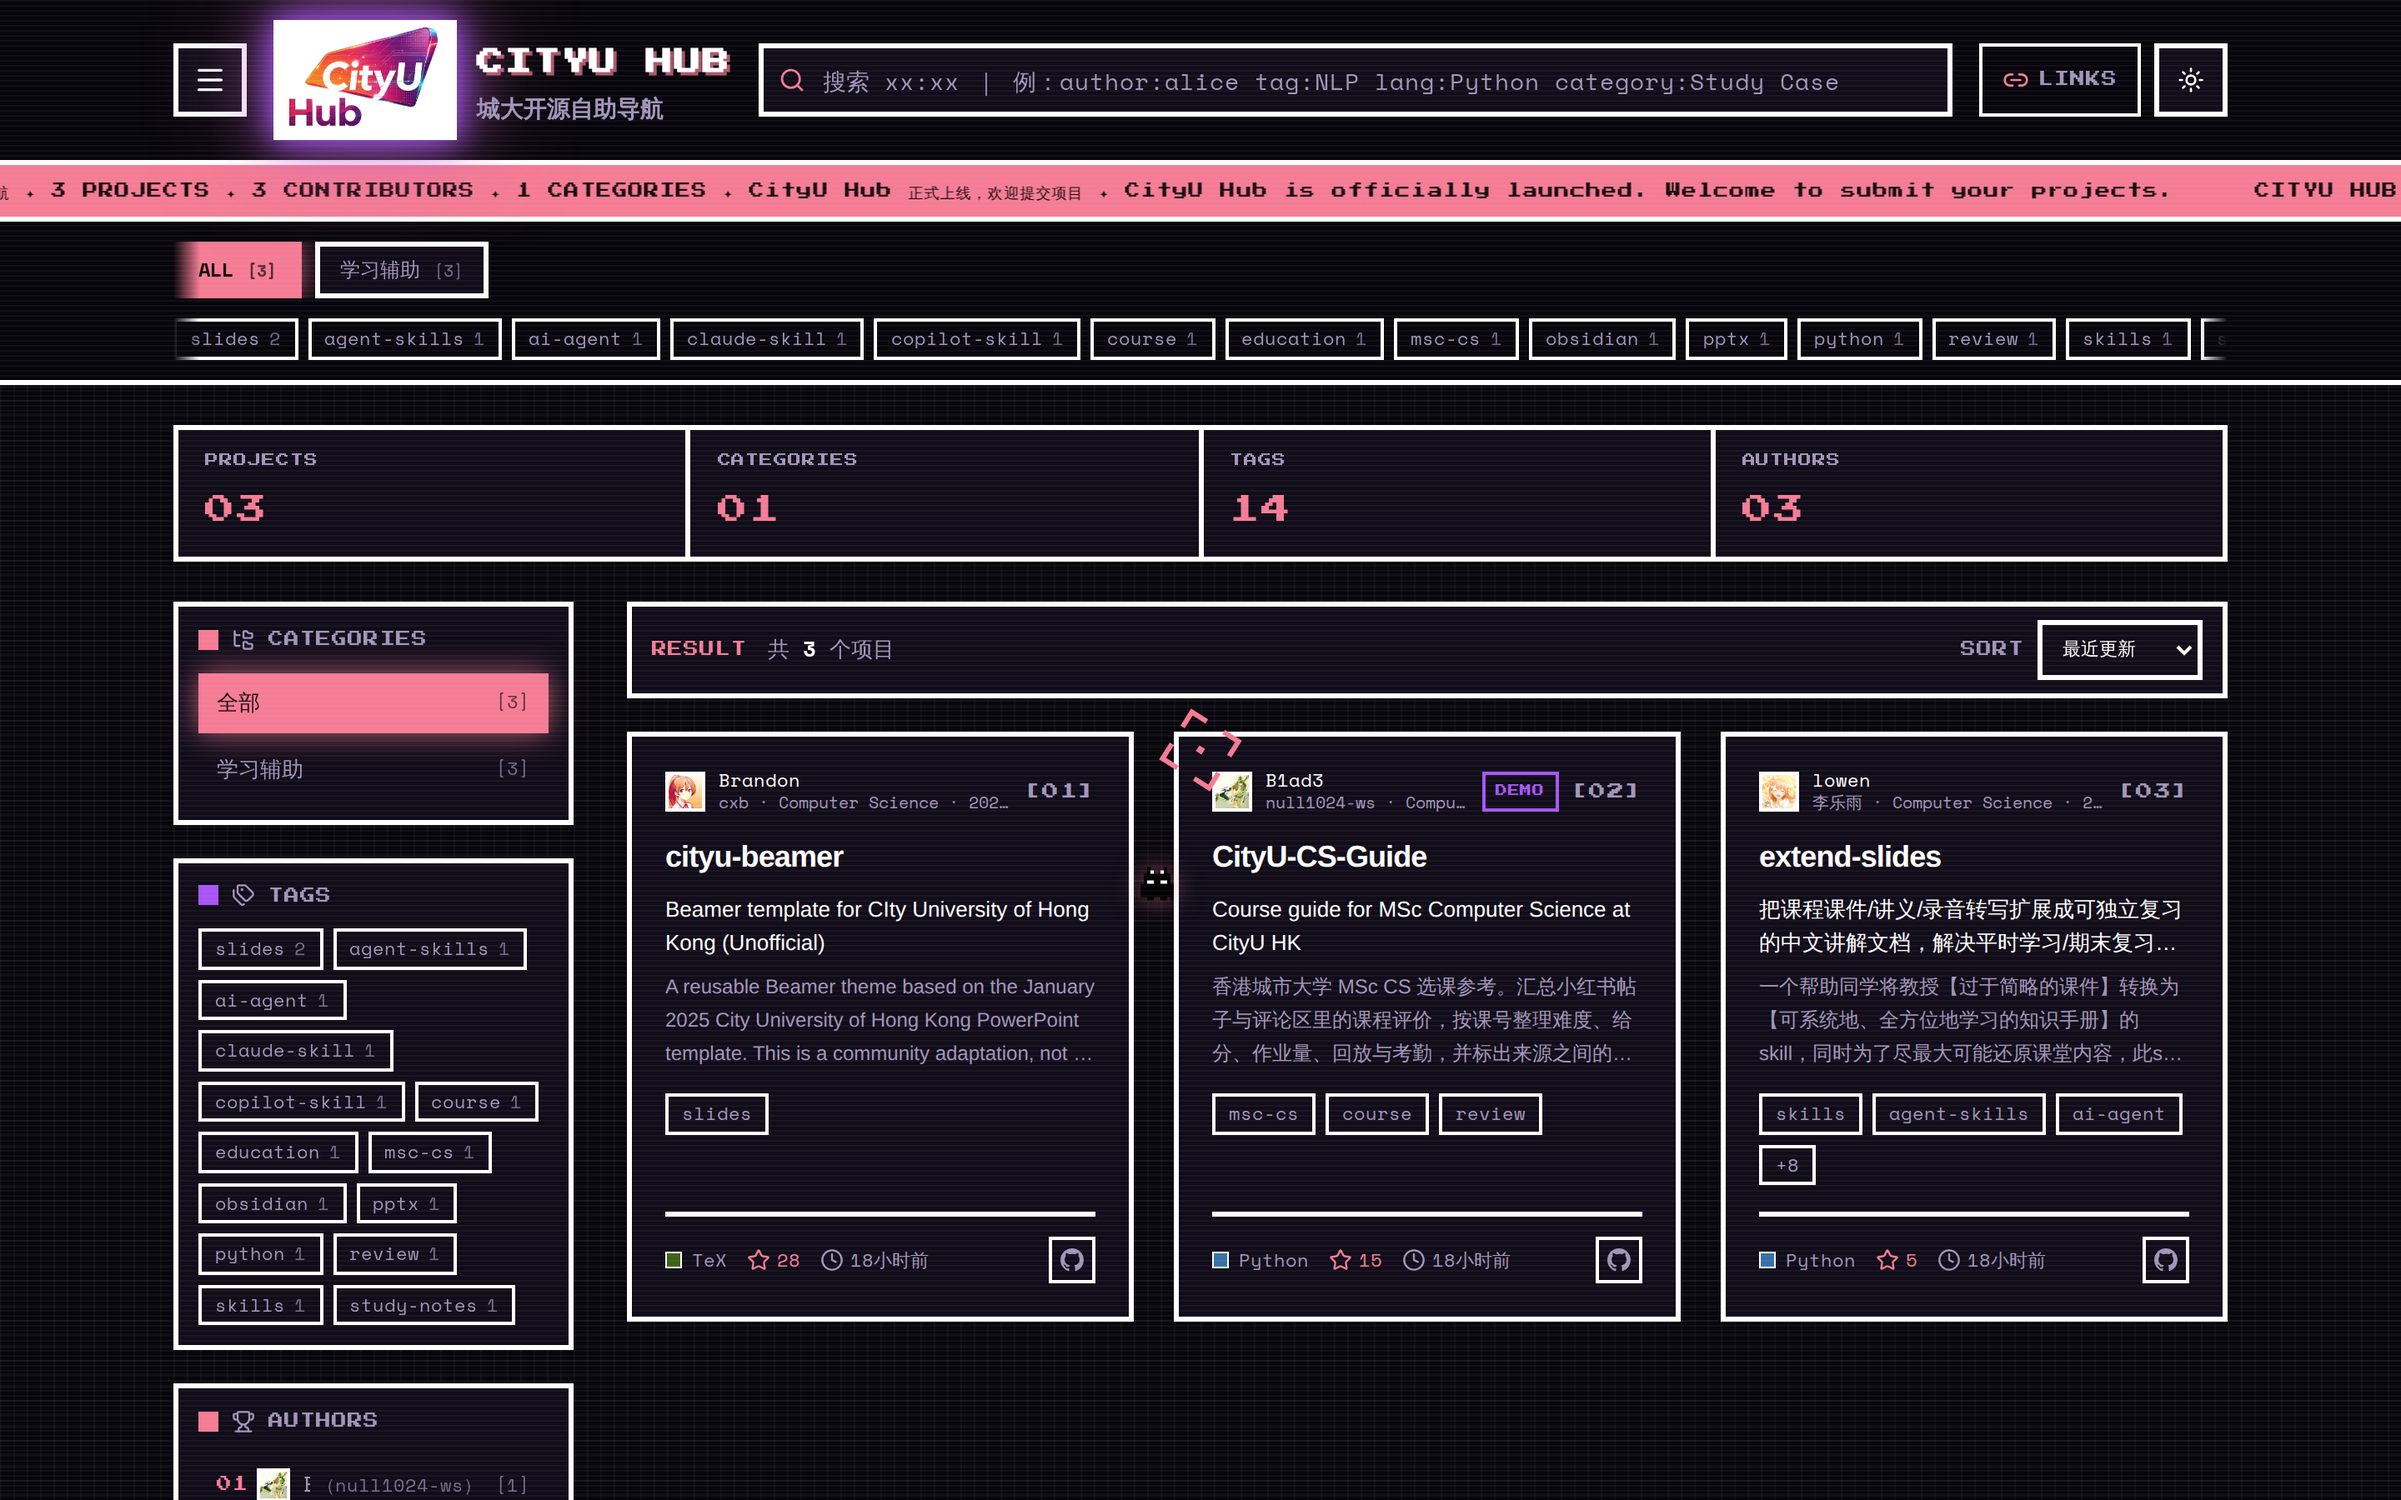
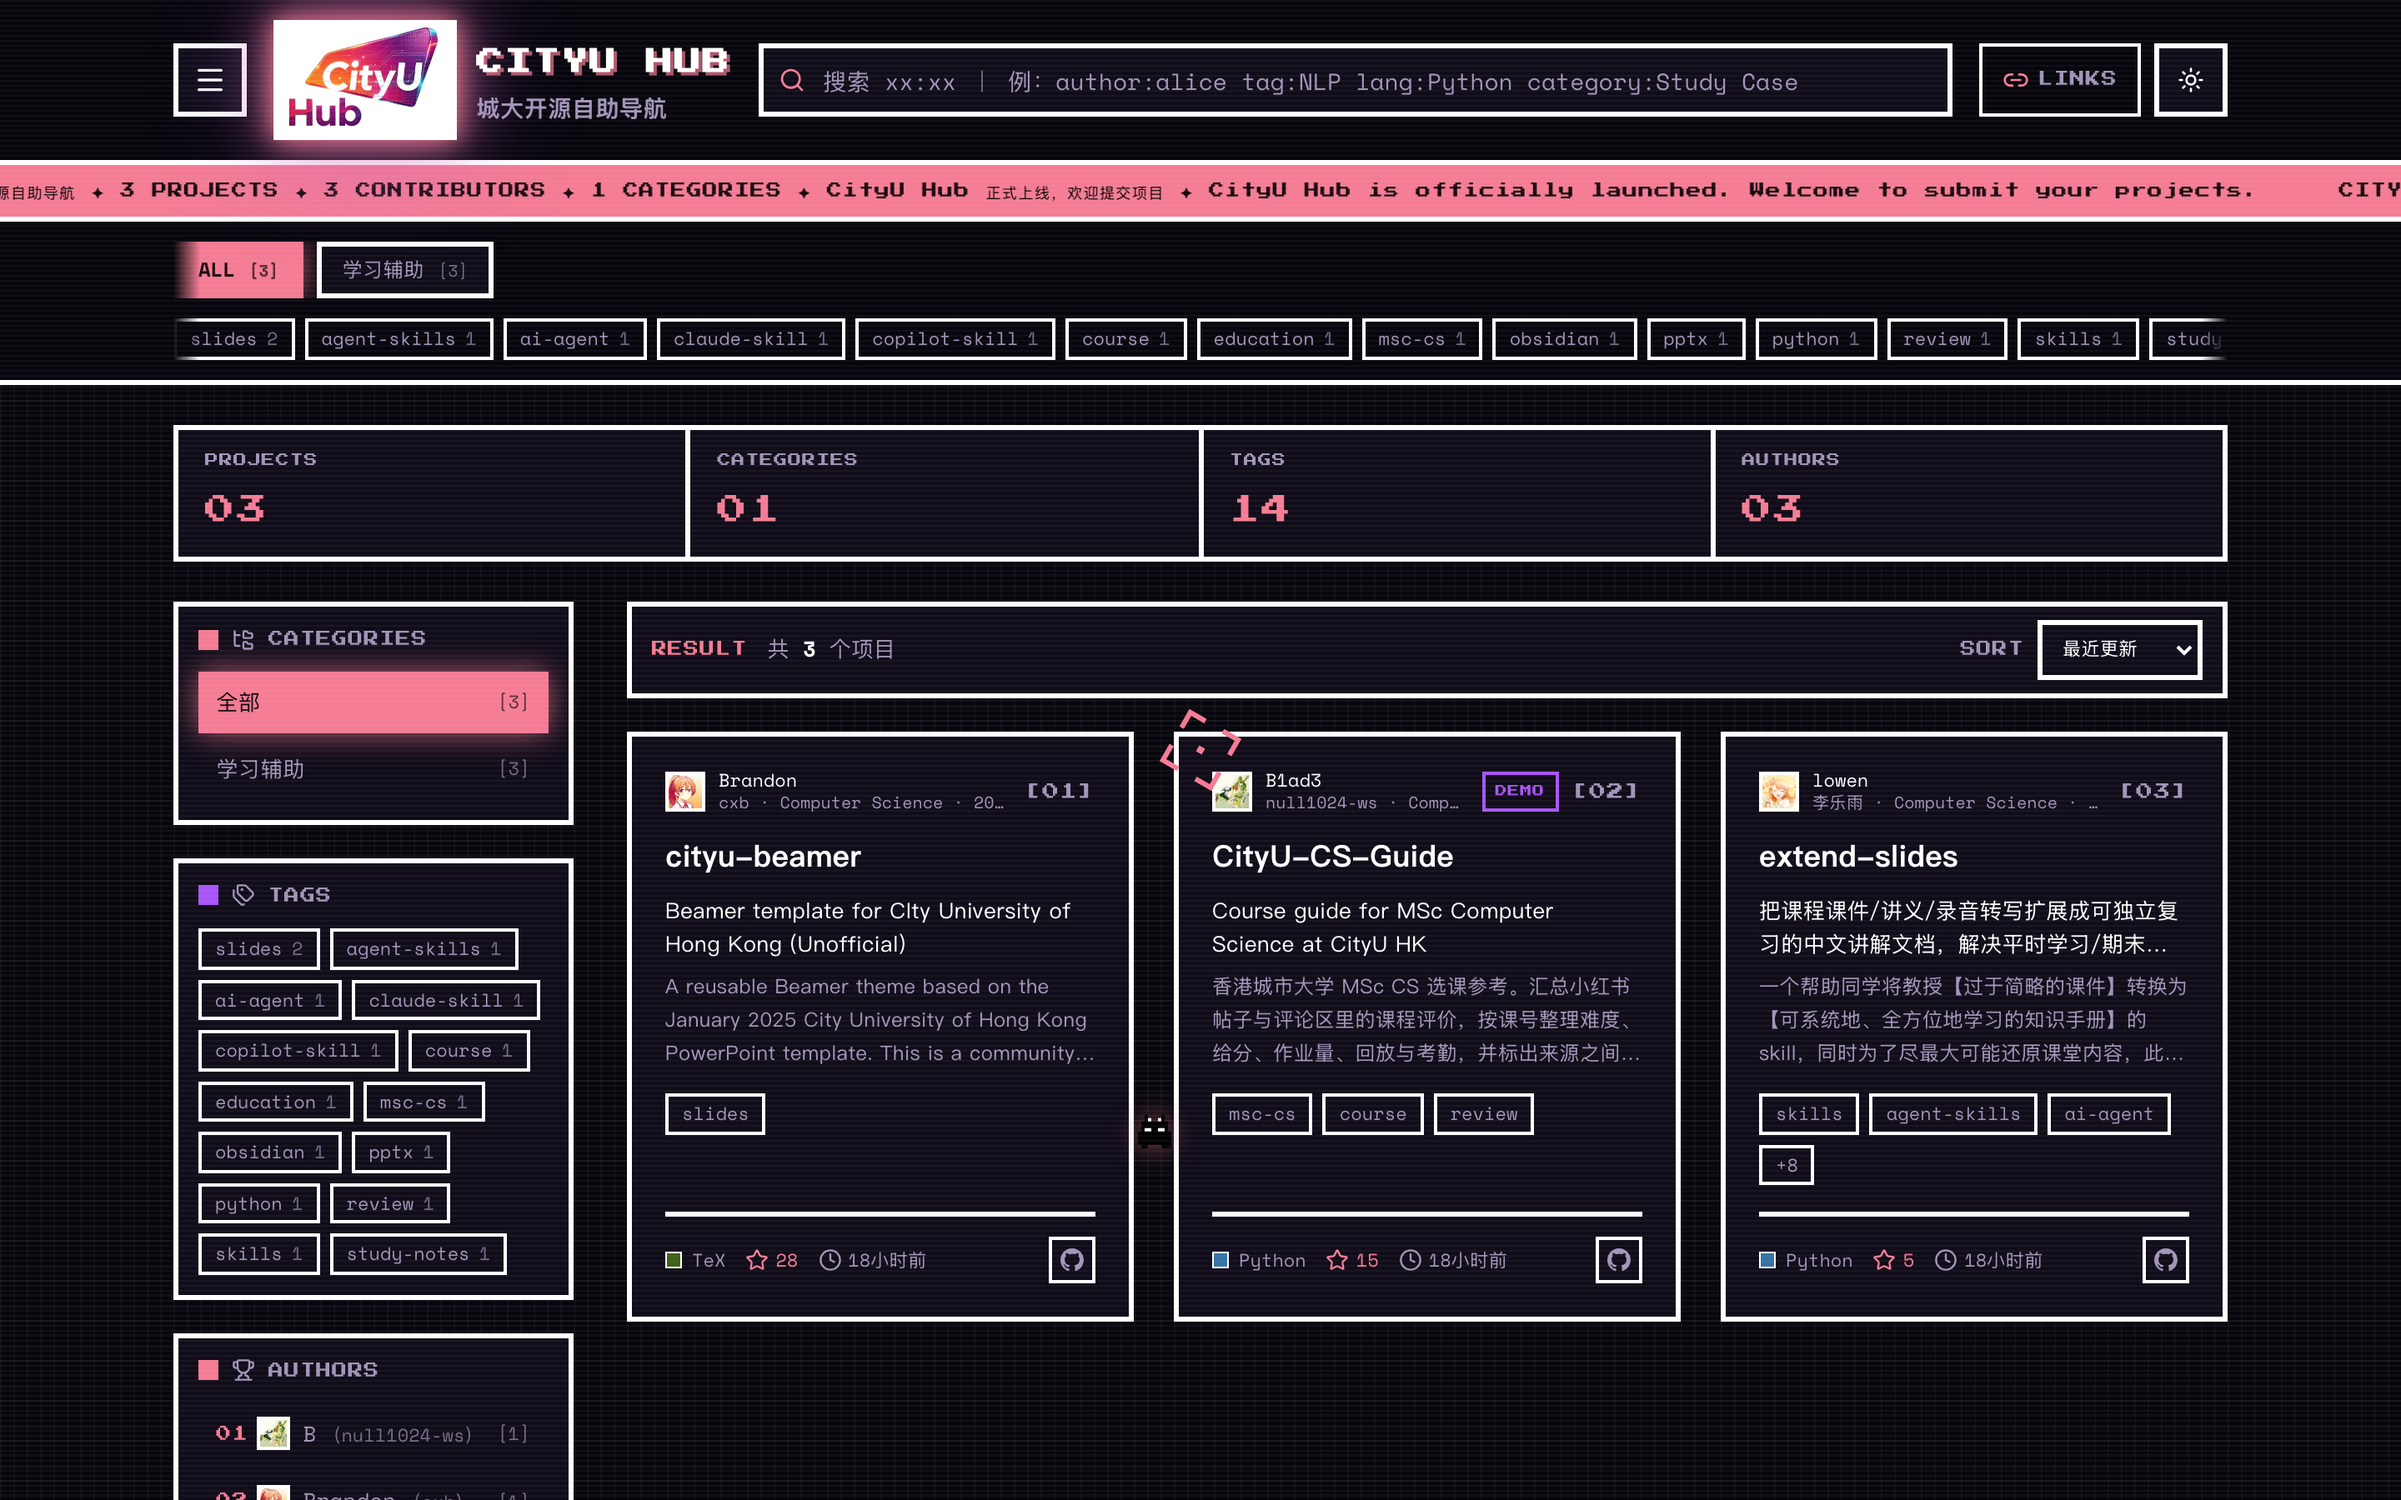
style: 截图标注改用小一号 <sub> 并移到站点一览上方
截图者固定写 github-actions[bot]，与截图提交者一致，去掉 github.actor
与本地 git user.name 的推断分支。GitHub 会剥掉 <small>，缩小字号只能用
<sub>（已用 GitHub markdown API 实测确认）。

diff --git a/README.md b/README.md
@@ -25,9 +25,9 @@
 <!-- screenshot:start -->
 <img src="web/public/screenshot.png" alt="CityU Hub 首页截图 / homepage screenshot" width="920" />
 
-**站点一览 · Homepage at a glance**
+<sub>截图时间 / 截圖時間 / captured at: 2026-09-23 02:56 (UTC+8) · 截图者 / 截圖者 / by: @github-actions[bot]</sub>
 
-截图时间 / 截圖時間 / captured at: 2026-09-23 02:52 (UTC+8) · 截图者 / 截圖者 / by: @Warpshlczy
+**站点一览 · Homepage at a glance**
 <!-- screenshot:end -->
 
 <a href="https://cityu-hub.bond">
